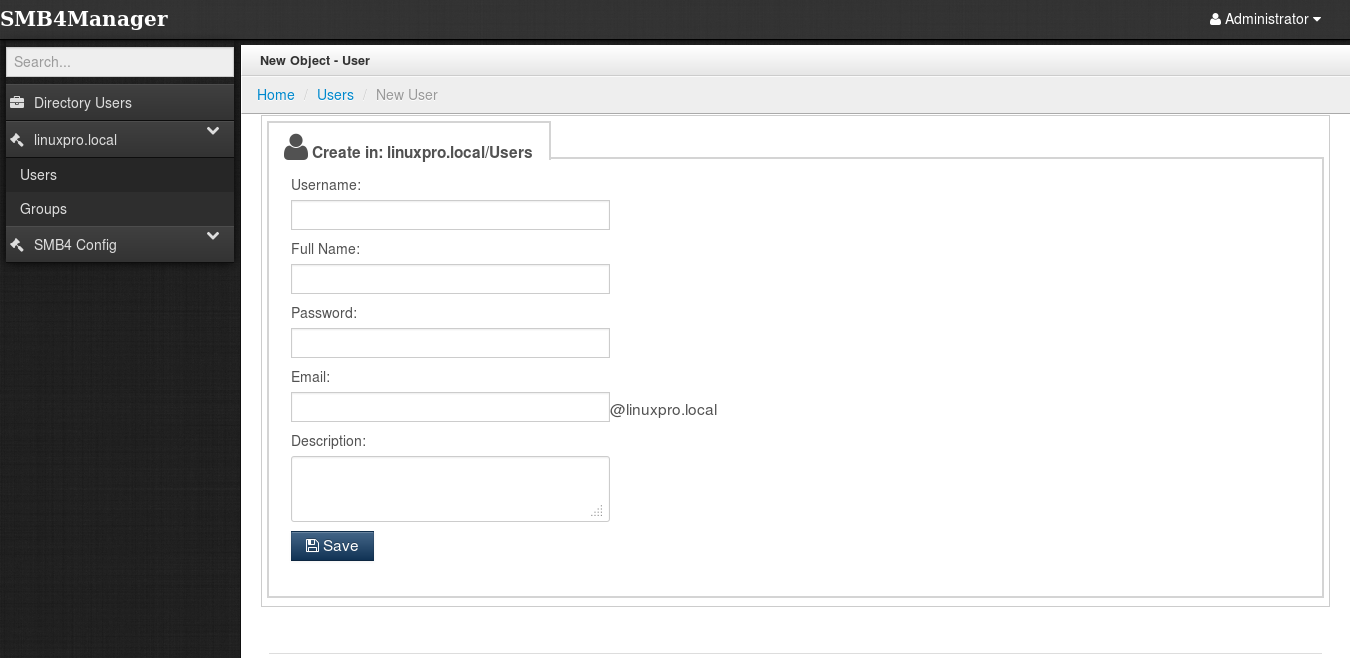
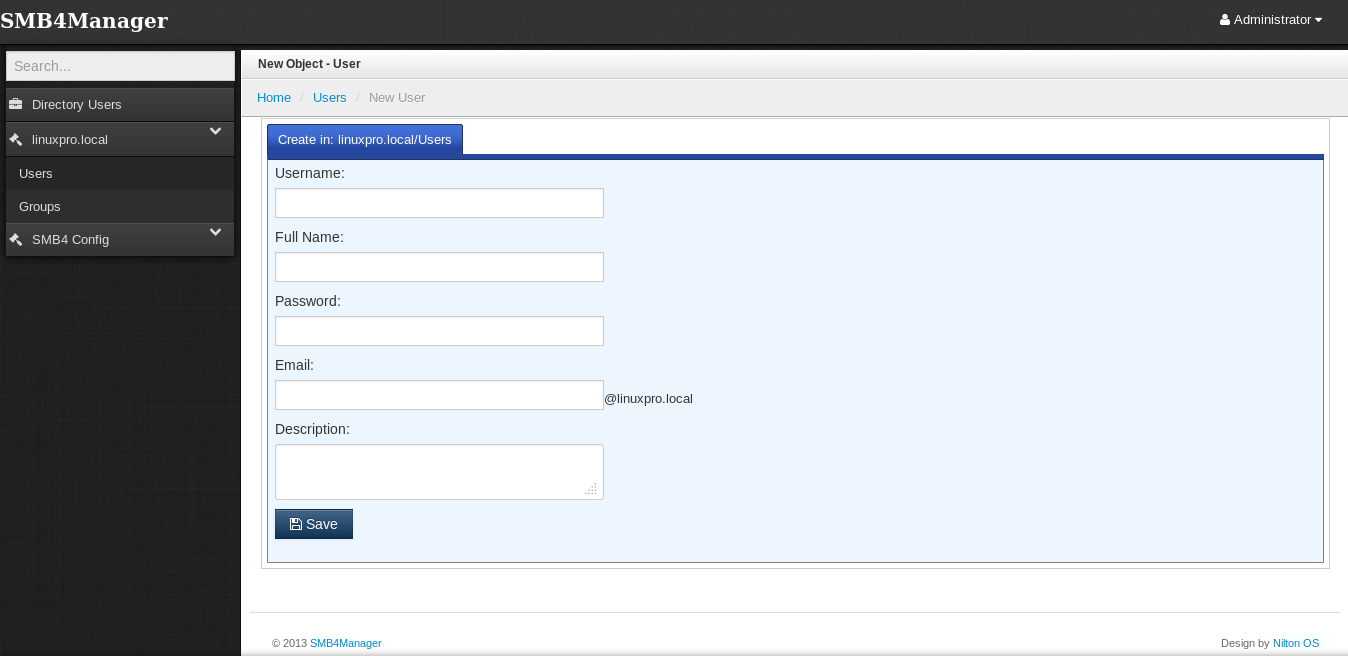
Change README, update screen shots, add screencast

diff --git a/README.md b/README.md
@@ -4,8 +4,6 @@ SMB4Manger Samba4 Manager
 Samba4 Web Manager
 
 **Webapp to manage Samba4 samba-tool**
-**Do not use in production environment**
-**Add new lib samba python**
 
 Installation
 ====
@@ -20,6 +18,11 @@ Installation
     cd smb4manager
     chmod +x create_env.sh
     ./create_env.sh
+
+
+ScreenCast
+====
+* [Youtube](https://www.youtube.com/watch?v=iK73rl2rvSs)
 
 
 Run SMB4Manager
